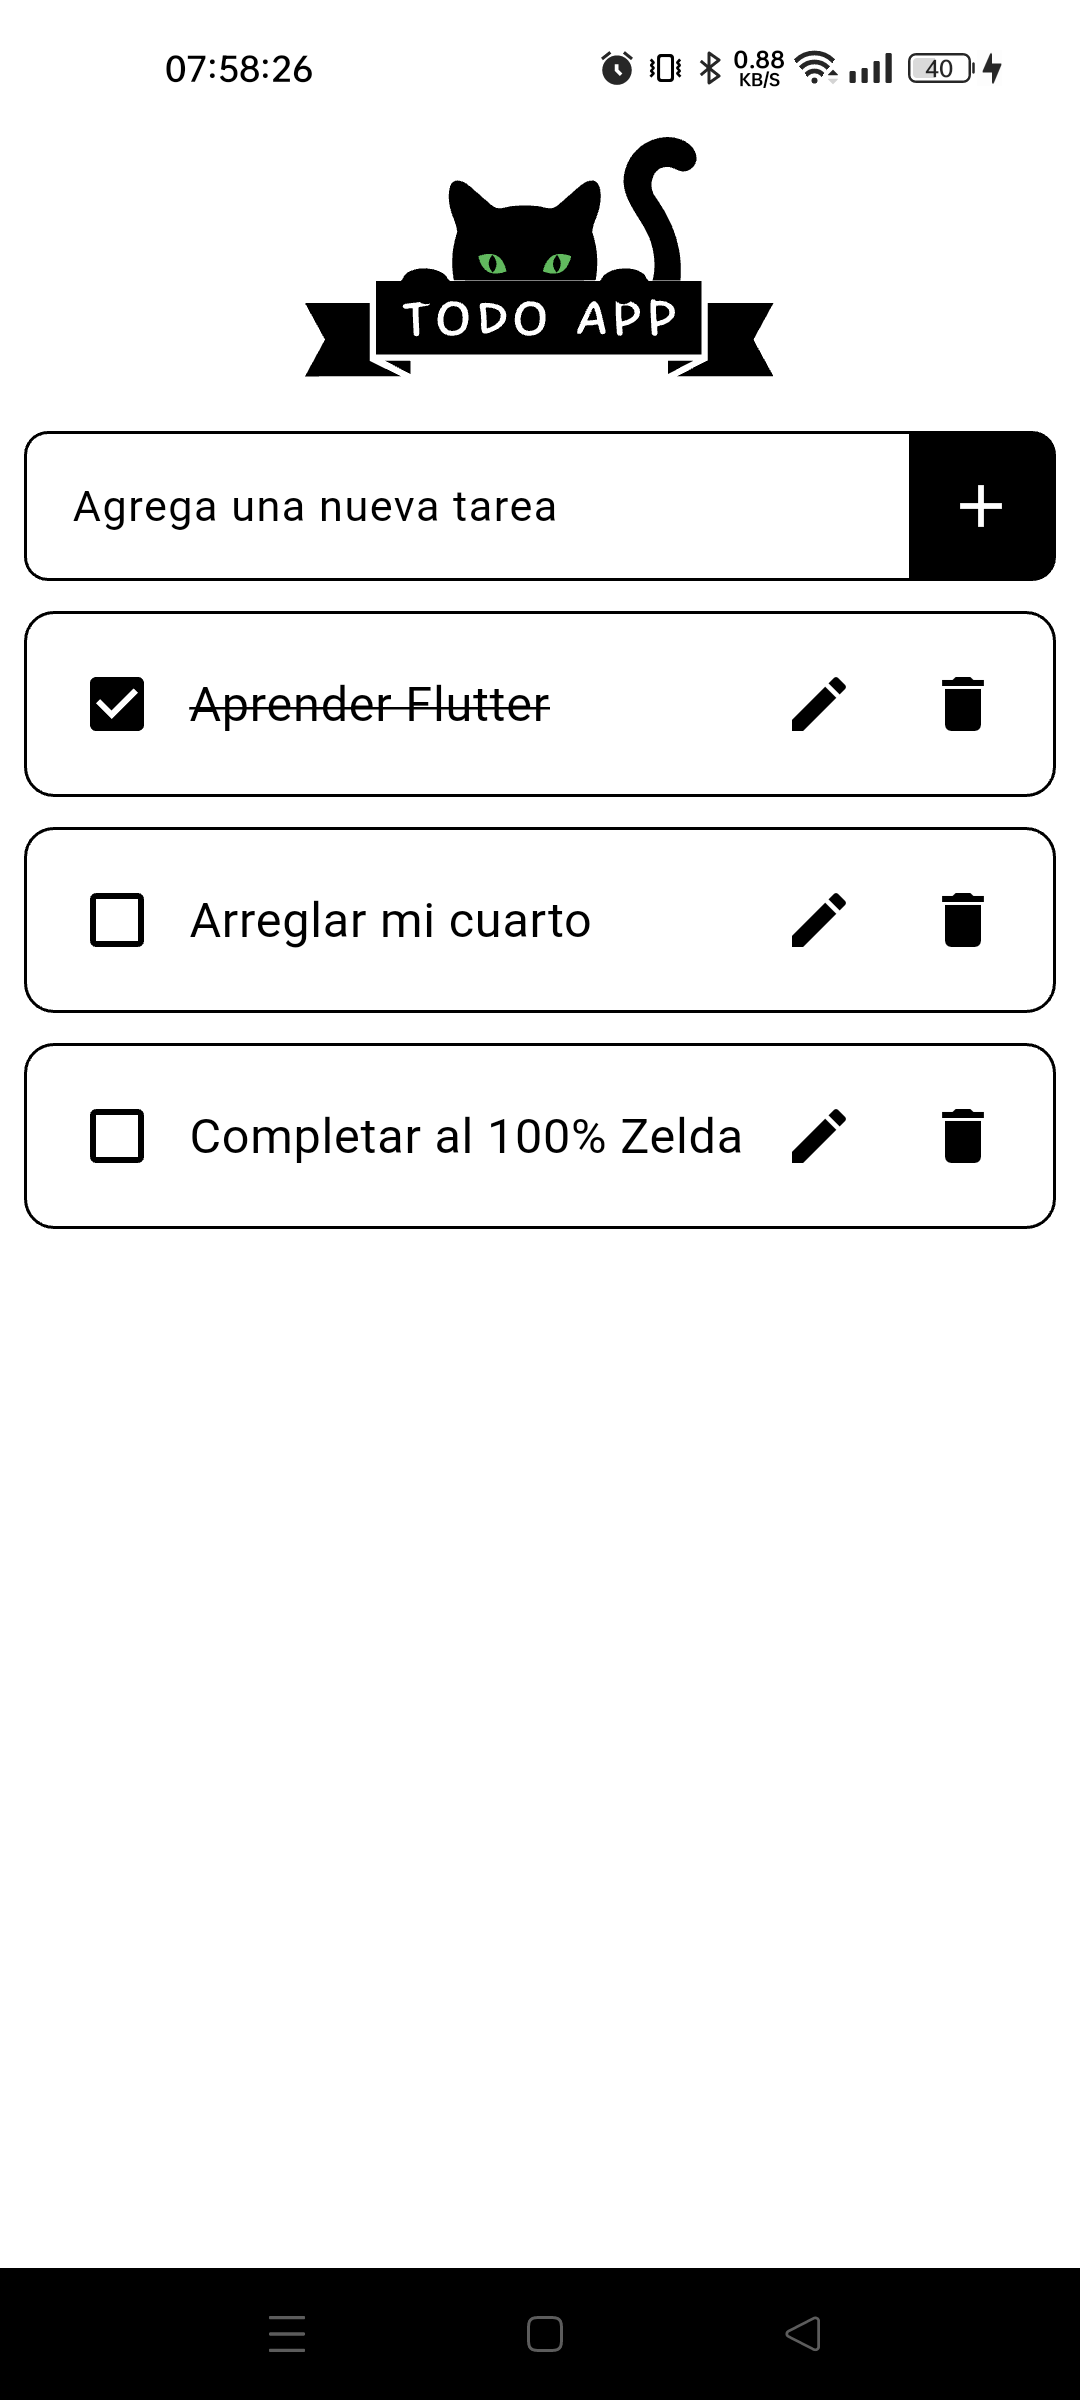
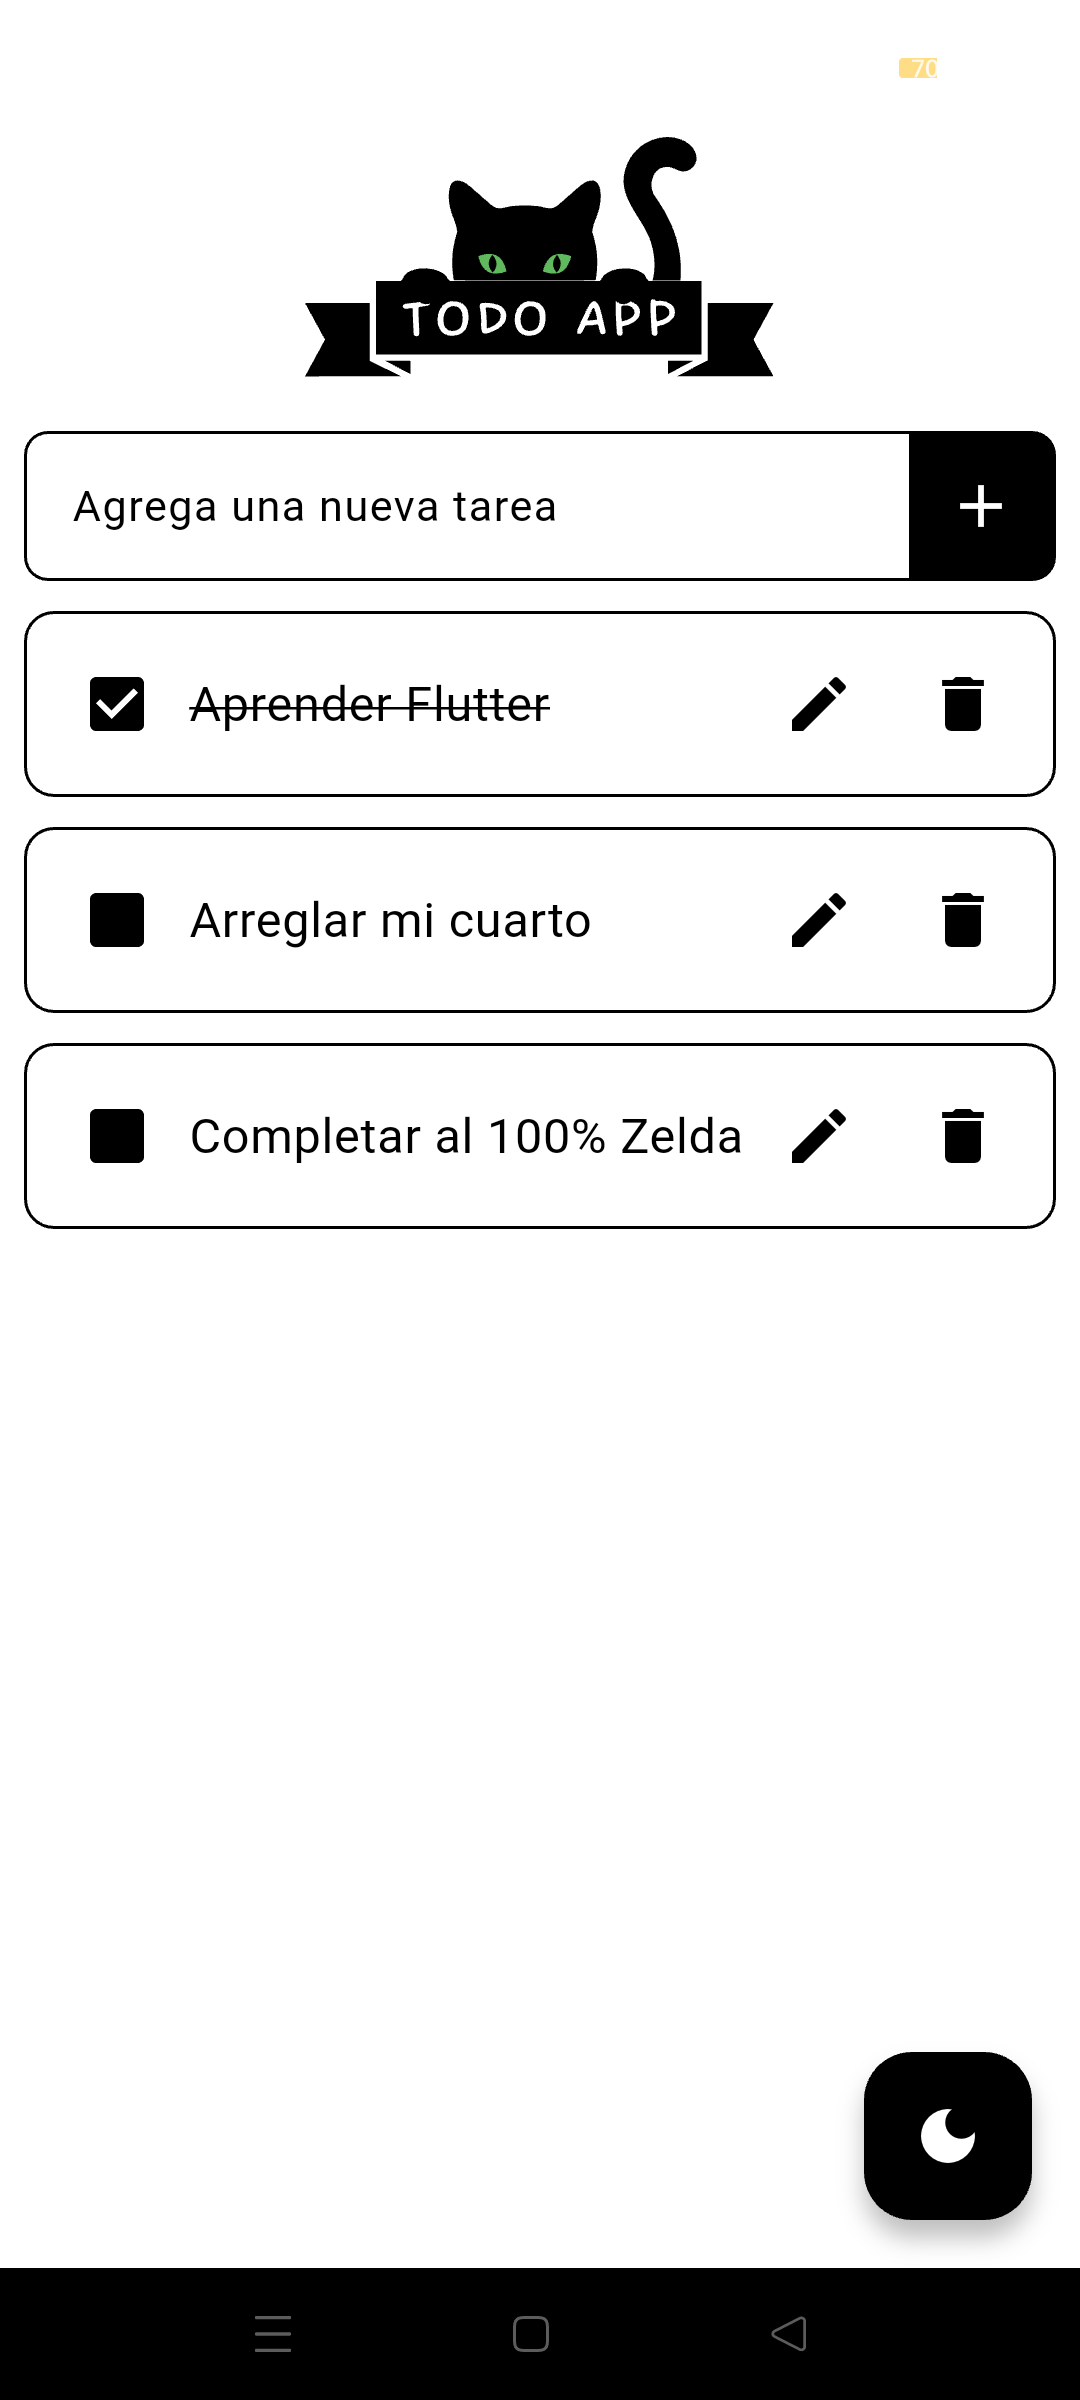
Feat: Dark Mode

diff --git a/todo/lib/presentation/widgets/Todos/item.dart b/todo/lib/presentation/widgets/Todos/item.dart
@@ -19,7 +19,7 @@ class ItemTodo extends StatelessWidget {
       margin: const EdgeInsets.only(top: 10),
       padding: const EdgeInsets.all(6),
       decoration: BoxDecoration(
-        border: Border.all(color: Colors.black),
+        border: Border.all(color: Theme.of(context).colorScheme.secondary),
         borderRadius: BorderRadius.circular(10),
       ),
       child: Row(
@@ -27,12 +27,17 @@ class ItemTodo extends StatelessWidget {
           Checkbox(
             value: todo.completed,
             onChanged: (_) => completedTodoList(todo.id, context),
+            fillColor: WidgetStateProperty.resolveWith<Color>((
+              Set<WidgetState> states,
+            ) {
+              return Theme.of(context).colorScheme.secondary;
+            }),
           ),
           Expanded(
             child: Text(
               todo.tarea,
               style: TextStyle(
-                color: Colors.black,
+                color: Theme.of(context).colorScheme.secondary,
                 fontSize: 18,
                 decoration:
                     todo.completed
@@ -45,13 +50,19 @@ class ItemTodo extends StatelessWidget {
             children: [
               IconButton(
                 onPressed: () => toastEditTodo(context, todo, todosProvider),
-                icon: Icon(Icons.edit),
+                icon: Icon(
+                  Icons.edit,
+                  color: Theme.of(context).colorScheme.secondary,
+                ),
               ),
               IconButton(
                 onPressed: () {
                   todosProvider.eliminateTodo(todo.id);
                 },
-                icon: Icon(Icons.delete),
+                icon: Icon(
+                  Icons.delete,
+                  color: Theme.of(context).colorScheme.secondary,
+                ),
               ),
             ],
           ),

diff --git a/todo/lib/presentation/widgets/toast.dart b/todo/lib/presentation/widgets/toast.dart
@@ -23,7 +23,10 @@ Future<void> toastEditTodo(
             style: TextButton.styleFrom(
               textStyle: Theme.of(context).textTheme.labelLarge,
             ),
-            child: const Text('Cancelar'),
+            child: Text(
+              'Cancelar',
+              style: TextStyle(color: Theme.of(context).colorScheme.secondary),
+            ),
             onPressed: () {
               Navigator.of(context).pop();
             },
@@ -32,7 +35,10 @@ Future<void> toastEditTodo(
             style: TextButton.styleFrom(
               textStyle: Theme.of(context).textTheme.labelLarge,
             ),
-            child: const Text('Guardar'),
+            child: Text(
+              'Guardar',
+              style: TextStyle(color: Theme.of(context).colorScheme.secondary),
+            ),
             onPressed: () {
               if (newTodo.text.isEmpty) {
                 customAlert(
@@ -64,7 +70,10 @@ Future<void> customAlert(BuildContext context, String title, String message) {
             style: TextButton.styleFrom(
               textStyle: Theme.of(context).textTheme.labelLarge,
             ),
-            child: const Text('Aceptar'),
+            child: Text(
+              'Aceptar',
+              style: TextStyle(color: Theme.of(context).colorScheme.secondary),
+            ),
             onPressed: () {
               Navigator.of(context).pop();
             },

diff --git a/todo/lib/presentation/widgets/addInput.dart b/todo/lib/presentation/widgets/addInput.dart
@@ -19,8 +19,8 @@ class AddinputState extends State<Addinput> {
   Widget build(BuildContext context) {
     return Container(
       decoration: BoxDecoration(
-        color: Colors.white,
-        border: Border.all(color: Colors.black),
+        color: Theme.of(context).colorScheme.primary,
+        border: Border.all(color: Theme.of(context).colorScheme.secondary),
         borderRadius: BorderRadius.circular(8),
       ),
       padding: const EdgeInsets.only(left: 15),
@@ -37,7 +37,7 @@ class AddinputState extends State<Addinput> {
           ),
           Container(
             decoration: BoxDecoration(
-              color: Colors.black,
+              color: Theme.of(context).colorScheme.secondary,
               borderRadius: BorderRadius.only(
                 topRight: Radius.circular(7),
                 bottomRight: Radius.circular(7),
@@ -45,7 +45,10 @@ class AddinputState extends State<Addinput> {
             ),
             child: IconButton(
               onPressed: widget.addTodo,
-              icon: Icon(Icons.add, color: Colors.white),
+              icon: Icon(
+                Icons.add,
+                color: Theme.of(context).colorScheme.primary,
+              ),
             ),
           ),
         ],

diff --git a/todo/lib/presentation/screens/home.dart b/todo/lib/presentation/screens/home.dart
@@ -2,6 +2,7 @@ import 'package:flutter/material.dart';
 import 'package:flutter_svg/svg.dart';
 import 'package:provider/provider.dart';
 import 'package:todo/presentation/widgets/index.dart';
+import 'package:todo/provider/themeProvider.dart';
 import 'package:todo/provider/todoProvider.dart';
 
 class Home extends StatelessWidget {
@@ -28,7 +29,7 @@ class Home extends StatelessWidget {
 
     return Scaffold(
       appBar: AppBar(
-        backgroundColor: Colors.white,
+        backgroundColor: Colors.transparent,
         leadingWidth: 100,
         toolbarHeight: 100,
         centerTitle: true,
@@ -55,6 +56,16 @@ class Home extends StatelessWidget {
                 : WidgetTodos(todosProvider: todosProvider),
           ],
         ),
+      ),
+      floatingActionButton: FloatingActionButton(
+        onPressed: () {
+          Provider.of<ThemeProvider>(context, listen: false).changeMode();
+        },
+        backgroundColor: Theme.of(context).colorScheme.secondary,
+        child:
+            Theme.of(context).colorScheme.primary == Colors.white
+                ? Icon(Icons.dark_mode)
+                : Icon(Icons.sunny),
       ),
     );
   }

diff --git a/todo/lib/main.dart b/todo/lib/main.dart
@@ -1,12 +1,16 @@
 import 'package:flutter/material.dart';
 import 'package:provider/provider.dart';
 import 'package:todo/presentation/screens/index.dart';
+import 'package:todo/provider/themeProvider.dart';
 import 'package:todo/provider/todoProvider.dart';
 
 void main() {
   runApp(
-    ChangeNotifierProvider(
-      create: (context) => Todoprovider(),
+    MultiProvider(
+      providers: [
+        ChangeNotifierProvider(create: (context) => Todoprovider()),
+        ChangeNotifierProvider(create: (context) => ThemeProvider()),
+      ],
       child: const MainApp(),
     ),
   );
@@ -19,10 +23,7 @@ class MainApp extends StatelessWidget {
   Widget build(BuildContext context) {
     return MaterialApp(
       debugShowCheckedModeBanner: false,
-      theme: ThemeData(
-        useMaterial3: true,
-        colorScheme: ColorScheme.light(primary: Colors.black),
-      ),
+      theme: Provider.of<ThemeProvider>(context).themeData,
       initialRoute: '/',
       routes: {
         '/': (context) => const Login(),

diff --git a/todo/lib/provider/themeProvider.dart b/todo/lib/provider/themeProvider.dart
@@ -1,0 +1,21 @@
+import 'package:flutter/material.dart';
+import 'package:todo/config/theme.dart';
+
+class ThemeProvider extends ChangeNotifier {
+  ThemeData _themeData = lightMode;
+  ThemeData get themeData => _themeData;
+
+  set themeData(ThemeData themeData) {
+    _themeData = themeData;
+    notifyListeners();
+  }
+
+  void changeMode() {
+    if (_themeData == lightMode) {
+      themeData = darkMode;
+    } else {
+      themeData = lightMode;
+    }
+    notifyListeners();
+  }
+}

diff --git a/todo/lib/presentation/widgets/Todos/todoWidget.dart b/todo/lib/presentation/widgets/Todos/todoWidget.dart
@@ -13,7 +13,10 @@ class WidgetTodos extends StatelessWidget {
       child: ListView.builder(
         itemCount: todosProvider.todos.length,
         itemBuilder: (context, index) {
-          return ItemTodo(todo: todosProvider.todos[index], todosProvider: todosProvider,);
+          return ItemTodo(
+            todo: todosProvider.todos[index],
+            todosProvider: todosProvider,
+          );
         },
       ),
     );

diff --git a/todo/lib/config/theme.dart b/todo/lib/config/theme.dart
@@ -1,0 +1,14 @@
+import 'package:flutter/material.dart';
+
+ThemeData lightMode = ThemeData(
+  brightness: Brightness.light,
+  colorScheme: ColorScheme.light(
+    primary: Colors.white,
+    secondary: Colors.black,
+  ),
+);
+
+ThemeData darkMode = ThemeData(
+  brightness: Brightness.dark,
+  colorScheme: ColorScheme.dark(primary: Colors.black, secondary: Colors.white),
+);

diff --git a/README.md b/README.md
@@ -9,13 +9,16 @@ Una aplicación de lista de tareas construida con **Flutter** para gestionar tus
 - Marcar tareas como completadas
 - Eliminar tareas
 - UI elegante con Flutter
+- Modo Oscuro
 - Guardado local de datos (Próximamente)
 
 ## 📱 Capturas de pantalla
 
 <p align="center">
-  <img src="todo/Inicio de sesión.png " alt="Pantalla principal" width="200"/>
-  <img src="todo/Home.png" alt="Agregar tarea" width="200"/>
+  <img src="todo/Inicio de sesión.png " alt="Inicio de sesión" width="200"/>
+  <img src="todo/Home.png" alt="Home" width="200"/>
+  <img src="todo/Home_Dark.png" alt="Home Dark" width="200"/>
+
 </p>
 
 ## 🚀 Instalación
@@ -23,3 +26,4 @@ Una aplicación de lista de tareas construida con **Flutter** para gestionar tus
 1. Clona el repositorio:
    ```bash
    https://github.com/FranciscoMelen10/Todo.git
+   ```
